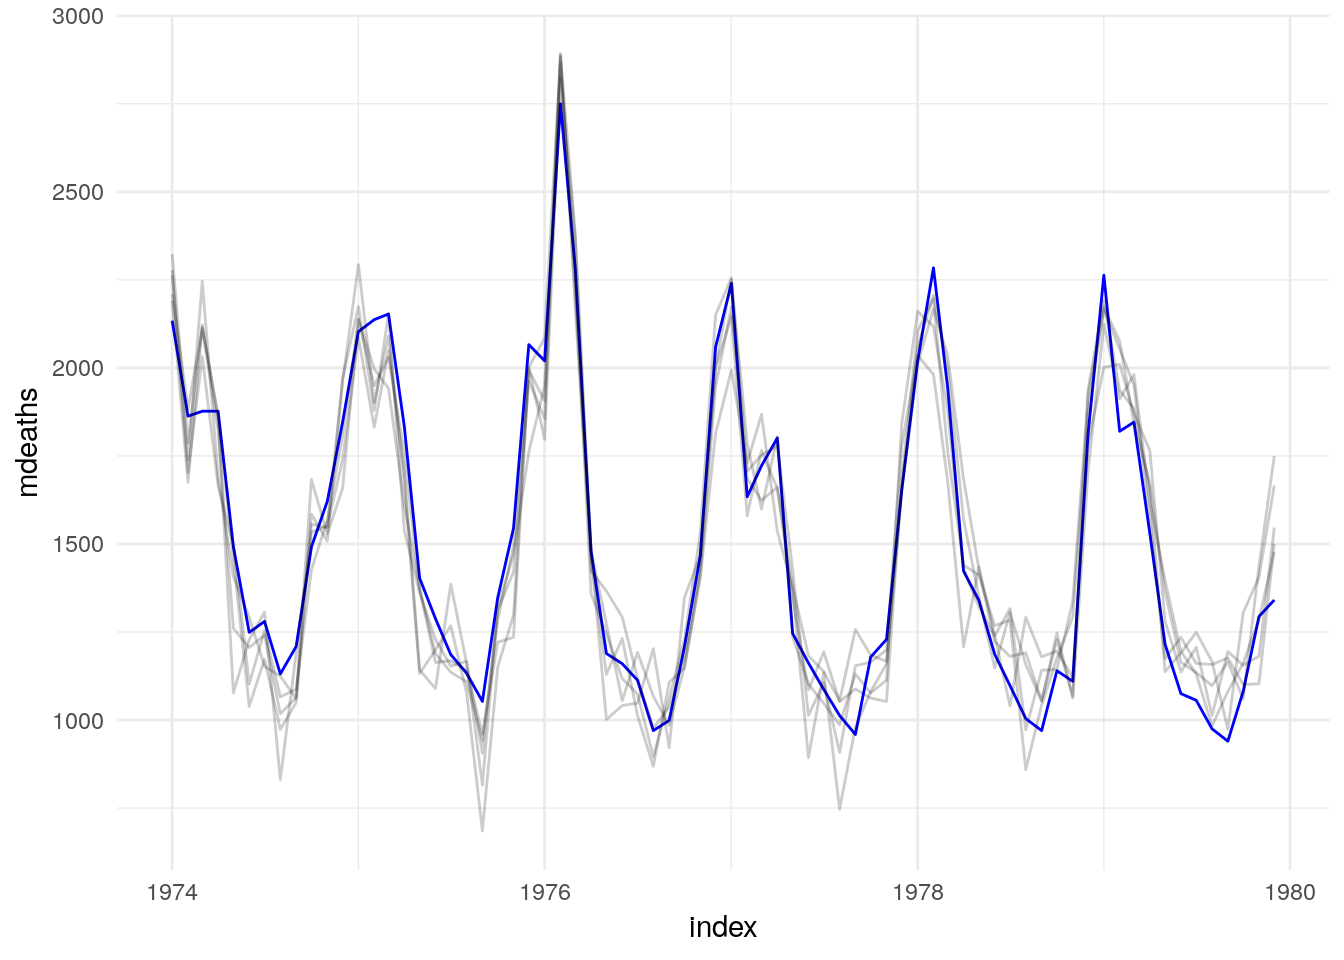
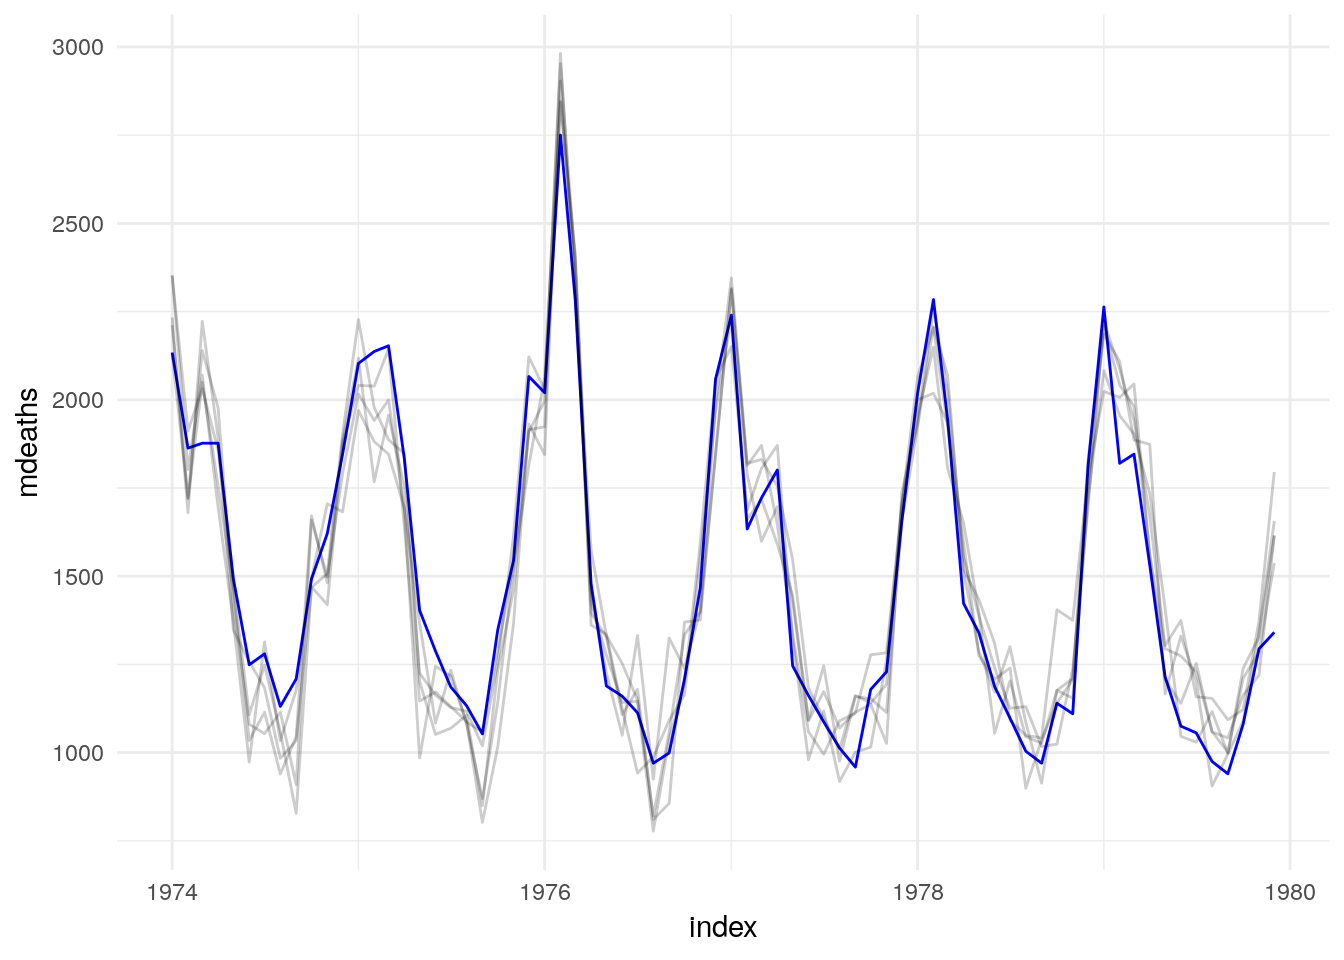
The times argument for simulate is now handled by fablelite

diff --git a/docs/methods.html b/docs/methods.html
@@ -25,7 +25,7 @@
 <meta name="author" content="Mitchell O’Hara-Wild">
 
 
-<meta name="date" content="2018-09-27">
+<meta name="date" content="2018-09-28">
 
   <meta name="viewport" content="width=device-width, initial-scale=1">
   <meta name="apple-mobile-web-app-capable" content="yes">
@@ -225,24 +225,24 @@ code span.wa { color: #60a0b0; font-weight: bold; font-style: italic; } /* Warni
 <ul>
 <li>object: The model itself</li>
 <li>new_data: The data used for simulation</li>
-<li>times: The number of simulated series</li>
+<li><del>times</del>: The number of simulated series (handled by fablelite)</li>
 <li><del>seed</del>: Random generator initialisation (handled by fablelite)</li>
 </ul>
 <p>The <code>new_data</code> dataset extends existing <code>stats::simulate</code> functionality by allowing the simulation to accept a new time index for simulating beyond the sample (<code>.idx</code>), and allows the simulation to work with a new set of exogenous regressors (say <code>x1</code> and <code>x2</code>).</p>
 <p>It is expected that the innovations (<code>.innov</code>) for the simulation are randomly generated for each repition number (<code>rep</code>), which can be achieved using the <code>times</code> argument. However, users should also be able to provide a set of pre-generated innovations (<code>.innov</code>) for each repition (<code>.rep</code>). If these columns are provided in the <code>new_data</code>, then this data will be passed directly to the simulation method (without generating new numbers over <code>times</code> replications).</p>
 <pre><code>## # A tsibble: 9 x 5 [1M]
 ## # Key:       .rep [3]
-##    .rep     .idx .innov     x1     x2
-##   &lt;int&gt;    &lt;mth&gt;  &lt;dbl&gt;  &lt;dbl&gt;  &lt;dbl&gt;
-## 1     1 2017 Jan -1.45  -0.362 -1.82 
-## 2     1 2017 Feb -0.692  4.37  -1.91 
-## 3     1 2017 Mar  2.13   4.23  -2.33 
-## 4     2 2017 Jan  0.985  2.27  -0.273
-## 5     2 2017 Feb  0.760  5.56  -2.68 
-## 6     2 2017 Mar -0.630  2.84  -1.52 
-## 7     3 2017 Jan -0.186  0.542 -1.90 
-## 8     3 2017 Feb  0.632  2.06  -2.05 
-## 9     3 2017 Mar -0.909  4.93  -2.02</code></pre>
+##    .rep     .idx   .innov      x1     x2
+##   &lt;int&gt;    &lt;mth&gt;    &lt;dbl&gt;   &lt;dbl&gt;  &lt;dbl&gt;
+## 1     1 2017 Jan  0.00290 -0.0692 -1.24 
+## 2     1 2017 Feb  0.0651   0.551  -1.61 
+## 3     1 2017 Mar -0.295    1.57   -1.57 
+## 4     2 2017 Jan  0.0520   4.19   -2.74 
+## 5     2 2017 Feb  0.122    7.87   -0.840
+## 6     2 2017 Mar  0.537    2.49   -1.23 
+## 7     3 2017 Jan -0.365    3.53   -1.41 
+## 8     3 2017 Feb -0.650    2.46   -2.99 
+## 9     3 2017 Mar -1.55     2.42   -2.47</code></pre>
 <p>For the end user, creating simulations would work like this:</p>
 <div class="sourceCode" id="cb2"><pre class="sourceCode r"><code class="sourceCode r"><a class="sourceLine" id="cb2-1" data-line-number="1"><span class="kw">library</span>(fable)</a>
 <a class="sourceLine" id="cb2-2" data-line-number="2"><span class="kw">library</span>(tsibbledata)</a>
@@ -253,16 +253,16 @@ code span.wa { color: #60a0b0; font-weight: bold; font-style: italic; } /* Warni
 ## # Key:       .rep [5]
 ##       index  .rep  .sim
 ##       &lt;mth&gt; &lt;int&gt; &lt;dbl&gt;
-##  1 1974 Jan     1 2323.
-##  2 1974 Feb     1 1788.
-##  3 1974 Mar     1 2116.
-##  4 1974 Apr     1 1865.
-##  5 1974 May     1 1457.
-##  6 1974 Jun     1 1039.
-##  7 1974 Jul     1 1172.
-##  8 1974 Aug     1  974.
-##  9 1974 Sep     1 1050.
-## 10 1974 Oct     1 1556.
+##  1 1974 Jan     1 2351.
+##  2 1974 Feb     1 1912.
+##  3 1974 Mar     1 2031.
+##  4 1974 Apr     1 1857.
+##  5 1974 May     1 1476.
+##  6 1974 Jun     1 1108.
+##  7 1974 Jul     1 1248.
+##  8 1974 Aug     1 1058.
+##  9 1974 Sep     1  828.
+## 10 1974 Oct     1 1470.
 ## # ... with 350 more rows</code></pre>
 <p><img src="tidy-forecasting_files/figure-html/sim-example-eval-1.png" width="672" /></p>
 <p>Or, if they wanted to simulate beyond the sample:</p>
@@ -278,16 +278,16 @@ code span.wa { color: #60a0b0; font-weight: bold; font-style: italic; } /* Warni
 ## # Key:       .rep [5]
 ##       index  .rep  .sim
 ##       &lt;mth&gt; &lt;int&gt; &lt;dbl&gt;
-##  1 1979 Jan     1 2138.
-##  2 1979 Feb     1 2021.
-##  3 1979 Mar     1 2150.
-##  4 1979 Apr     1 1500.
-##  5 1979 May     1 1369.
-##  6 1979 Jun     1 1159.
-##  7 1979 Jul     1 1051.
-##  8 1979 Aug     1 1163.
-##  9 1979 Sep     1  990.
-## 10 1979 Oct     1 1220.
+##  1 1979 Jan     1 2127.
+##  2 1979 Feb     1 2000.
+##  3 1979 Mar     1 1925.
+##  4 1979 Apr     1 1720.
+##  5 1979 May     1 1404.
+##  6 1979 Jun     1 1245.
+##  7 1979 Jul     1 1215.
+##  8 1979 Aug     1 1143.
+##  9 1979 Sep     1 1135.
+## 10 1979 Oct     1  987.
 ## # ... with 50 more rows</code></pre>
 <p><img src="tidy-forecasting_files/figure-html/sim-future-eval-1.png" width="672" /></p>
 </div>
